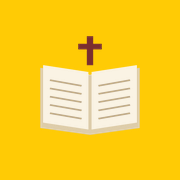
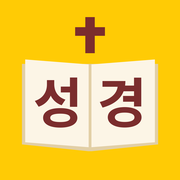
Add files via upload

Changed region(s): [[0.1111, 0.0833, 0.8889, 0.8611]]

diff --git a/pwa.ts b/pwa.ts
@@ -83,6 +83,9 @@ export function formatBuildTime(iso: string) {
 }
 
 export const CHANGELOG: [string, string[]][] = [
+  ['1.8.1', [
+    '🎨 앱 아이콘: 펼친 성경책 위에 "성경" 글씨 (바탕은 그대로 #FFCB05)',
+  ]],
   ['1.8.0', [
     '🔎 검색창 하나로: 장절 · 주제 · 낱말 · 문장을 앱이 알아서 (주제 사전 약 280가지 — 팔복 · 주기도문 · 탕자 …, 인터넷 없이 · 음성 오타도)',
     '📝 단락 요약: 소제목 아래 3~4문장 (기본 켜짐 · 설정에서 끄기)',

diff --git a/README.md b/README.md
@@ -5,12 +5,14 @@
 
 ---
 
-## 🆕 업데이트 방법 (이미 설치해서 쓰고 있다면 여기만 하세요) — v1.8.0
+## 🆕 업데이트 방법 (이미 설치해서 쓰고 있다면 여기만 하세요) — v1.8.1
 
-1. 새 **`SK-성경-앱-v1.8.0.zip`**을 내려받아 **압축 풀기** → 파일 49개
+1. 새 **`SK-성경-앱-v1.8.1.zip`**을 내려받아 **압축 풀기** → 파일 49개
 2. GitHub 저장소 **psungkim-svg/sk-bible** → **Add file → Upload files** → **choose your files**
    → 압축 푼 폴더에서 **Ctrl + A** → **열기** → 49개가 다 올라가면 **Commit changes**
    (같은 이름 파일은 자동으로 새 것으로 바뀝니다. v1.5.0에서 새로 생긴 파일 6개: `bookinfo.ts`, `study.ts`, `StudyView.tsx`, `ChapterInfo.tsx`, `MemoryView.tsx`, `xref.json`(관련 구절 자료). GitHub에 예전 `bsb-headings.json`이 남아 있어도 괜찮습니다 — 쓰지 않는 파일이라 그냥 두셔도 됩니다)
+   > 🎨 v1.8.1: **앱 아이콘**이 펼친 책 위에 **"성 | 경"** 글씨가 있는 모양으로 바뀝니다 (바탕색 #FFCB05 그대로). 바뀐 파일: 아이콘 그림 5개(`icon-192.png`, `icon-512.png`, `maskable-512.png`, `apple-touch-icon.png`, `favicon.png`). 홈 화면 아이콘은 보통 앱을 몇 번 켜면 하루 이틀 안에 저절로 바뀝니다 (안 바뀌면 아래 v1.5.2 설명 참고).
+   >
    > 🔎 v1.8.0: **검색창이 하나**로 (주제 사전 약 280가지: 팔복·주기도문·탕자…), 소제목 아래 **📝 단락 요약**, 위쪽 **⏬ 자동** 스크롤, 장 깊은 해설의 **어려운 곳 · 성경 전체 이야기**가 더 많고 자세하게, 주석은 **겹치지 않는 3가지**로 더 깊게, **AI 결과를 훨씬 많이 저장**(한 번 본 것은 인터넷 없이). 🔍 관찰 돕기와 "먼저 생각해 보기"는 빠졌습니다. 새 파일 2개: `aicache.ts`, `topics.ts`. GitHub에 남은 `obs.ts`는 쓰지 않는 파일이라 그냥 두셔도 됩니다.
    >
    > 🔍 v1.7.0: 장 이름 아래 **📘 장 깊은 해설** 버튼이 생겼습니다. 새 파일: `ChapterStudy.tsx`.
@@ -33,7 +35,7 @@
 3. 1~2분 뒤 Cloudflare **sk-bible → Deployments**에 ✓ 가 뜨면 끝
 4. 폰에서 SK-성경을 열면 화면 아래에 **"눌러서 업데이트"** 버튼이 나옵니다 → 누르면 새 버전으로 바뀝니다.
    (버튼이 안 보이면 앱을 최근 앱 목록에서 위로 밀어 닫았다가 다시 켜 보세요.)
-   **설정 → 맨 아래 "버전"**에 `v1.8.0`이 보이면 성공입니다. (안 바뀌면 "최신 버전 확인" → "지금 업데이트")
+   **설정 → 맨 아래 "버전"**에 `v1.8.1`이 보이면 성공입니다. (안 바뀌면 "최신 버전 확인" → "지금 업데이트")
 
 > 💡 AI 기능(문장 찾기 설명, 장 주제·배경, 구절 해설, 장 깊은 해설, 낱말·인물)은 Cloudflare **Workers AI** 무료 사용량(하루 1만 뉴런)을 함께 씁니다.
 > 따로 가입하거나 설정할 것은 없습니다. 한 번 만든 결과는 폰에 저장되어 다시 볼 때는 사용량이 들지 않습니다.
@@ -60,7 +62,7 @@
 
 ## 1단계. 앱 파일 받기 (컴퓨터에서) 💻
 
-1. 작업 공간의 **`SK-성경-앱-v1.8.0.zip`** 파일을 컴퓨터로 내려받습니다.
+1. 작업 공간의 **`SK-성경-앱-v1.8.1.zip`** 파일을 컴퓨터로 내려받습니다.
 2. 파일을 **마우스 오른쪽 버튼 → "압축 풀기"(또는 "모두 압축 풀기")** 합니다.
 3. 폴더 안에 **파일 44개**가 폴더 없이 한 곳에 들어 있습니다. (`App.tsx`, `index.html`, `nkrv.json`, `package.json`, `wrangler.jsonc` …)
    - 이 앱은 일부러 **폴더 없이** 만들었습니다. 그래서 파일을 한 번에 골라 올리기만 하면 됩니다.
